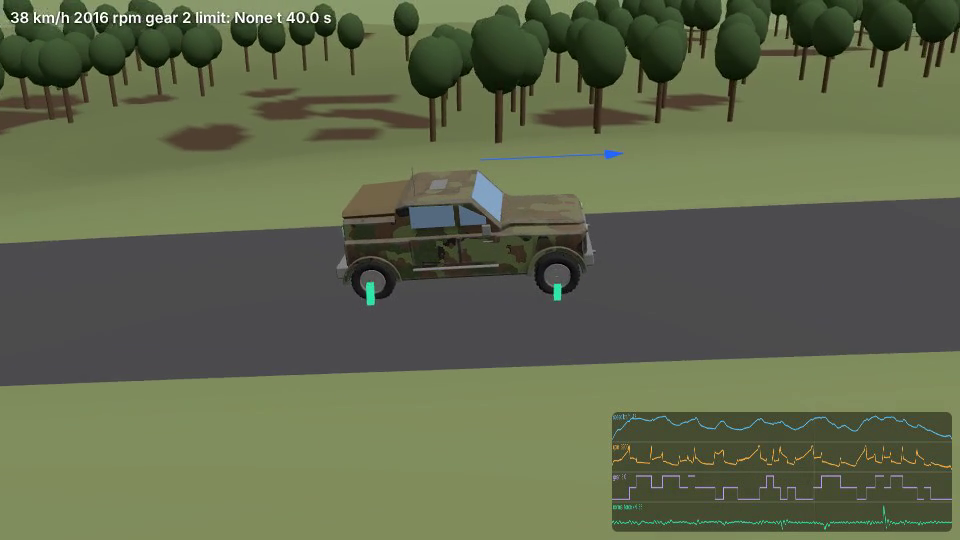
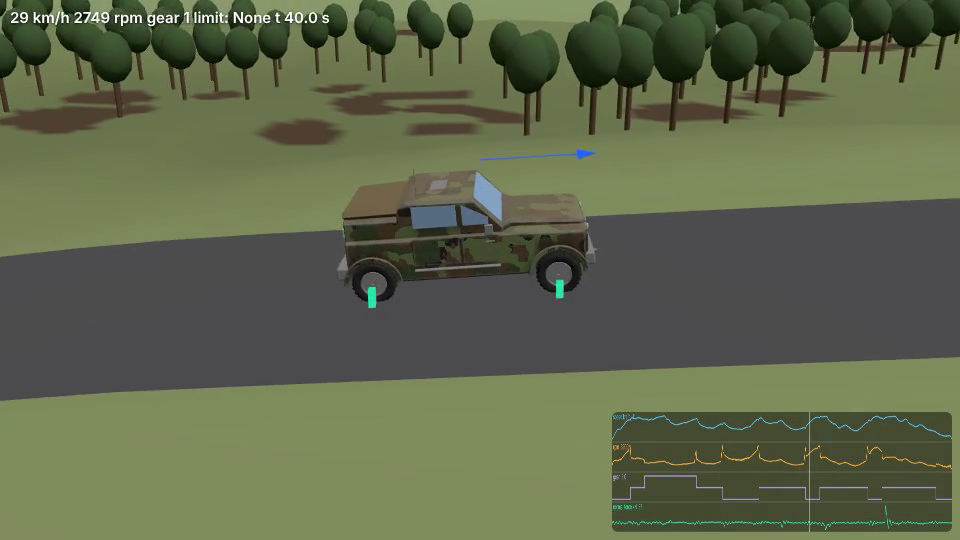
VIEWER: rocks in the course, final clip re-rendered on current integration
Claude-Session: https://claude.ai/code/session_01BHwQYQhC6JtyZVDpdJkp8r

diff --git a/tools/viewer/src/world.js b/tools/viewer/src/world.js
@@ -4,7 +4,7 @@ import * as THREE from 'three';
 
 const GROUND = { asphalt: 0x4a4a4c, dirt: 0x7d8a58, mud: 0x4b3a28, gravel: 0x8a8a84, sand: 0xc2b280 };
 const ROAD_WIDTH_M = 6; // PROVISIONAL: the file has no road width yet (docs/swarm/requests/viewer-world-road-width.md); the slice course is two 6 m lanes
-const PROP = { Tree: 0x5c4630, Barricade: 0xb9582c };
+const PROP = { Tree: 0x5c4630, Barricade: 0xb9582c, Rock: 0x7a7a74 };
 
 export function terrainMesh(t) {
   if (t.format !== 'w5k-terrain-1') throw new Error(`unknown terrain format ${t.format}`);

diff --git a/docs/swarm/status/viewer.md b/docs/swarm/status/viewer.md
@@ -19,7 +19,7 @@
 
 - Showpiece (PR on `lane/viewer/mule-showpiece`): CHASSIS's Mule strip replay on GEOMETRY's camouflaged `utility_4x4` (`--skin`, `w5k_replay::skin::retarget`: the skin's suspension arms take the Mule's rest positions, the body moves by the mean offset (0, -0.16, +0.3) m), WORLD's strip as ground (`--strip standard`), contact bars found by joint index. Clip: chase + orbit, 36 s each, force bars on.
 
-- Course (PR on `lane/viewer/course`): reads WORLD's `w5k-terrain-1` (`--terrain`, or the header's `terrain`): hills, road ribbon, mud, trees and barricades as instanced props; layouts `full|inset|off` for the plots; a follow camera (`quarter`, `chase`) driven by the direction of travel over 0.8 s, so it is smooth over bumps and deterministic when scrubbing. Final clip: the whole 520 m road, quarter then orbit.
+- Course (PR on `lane/viewer/course`): reads WORLD's `w5k-terrain-1` (`--terrain`, or the header's `terrain`): hills, road ribbon, mud, trees and barricades as instanced props; layouts `full|inset|off` for the plots; a follow camera (`quarter`, `chase`) driven by the direction of travel over 0.8 s, so it is smooth over bumps and deterministic when scrubbing. Final clip: the whole 520 m road, quarter then orbit, re-rendered on integration with DRIVE's calmer gearbox and WORLD's rock fields (rocks are grey spheres).
 
 ## In progress
 - Nothing: PRs #15, #22, #26, #28, #33 (stacked, merge in that order) await ARCH. Idle.
